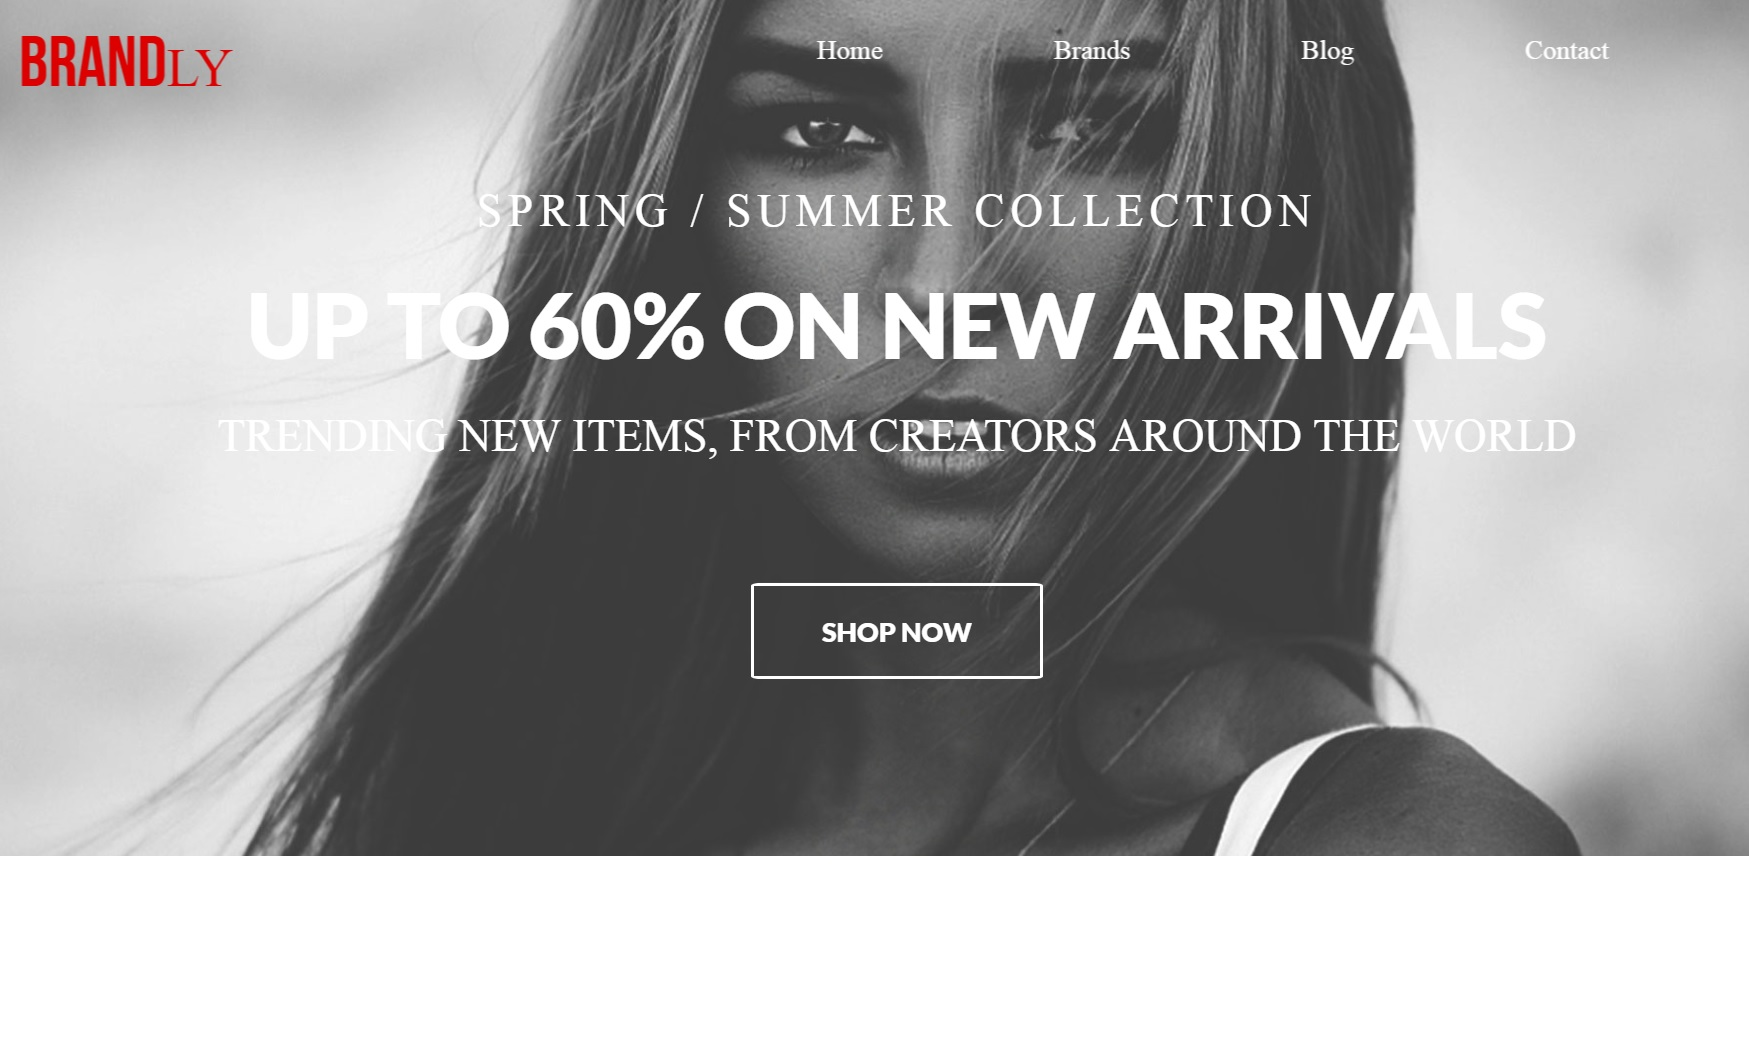
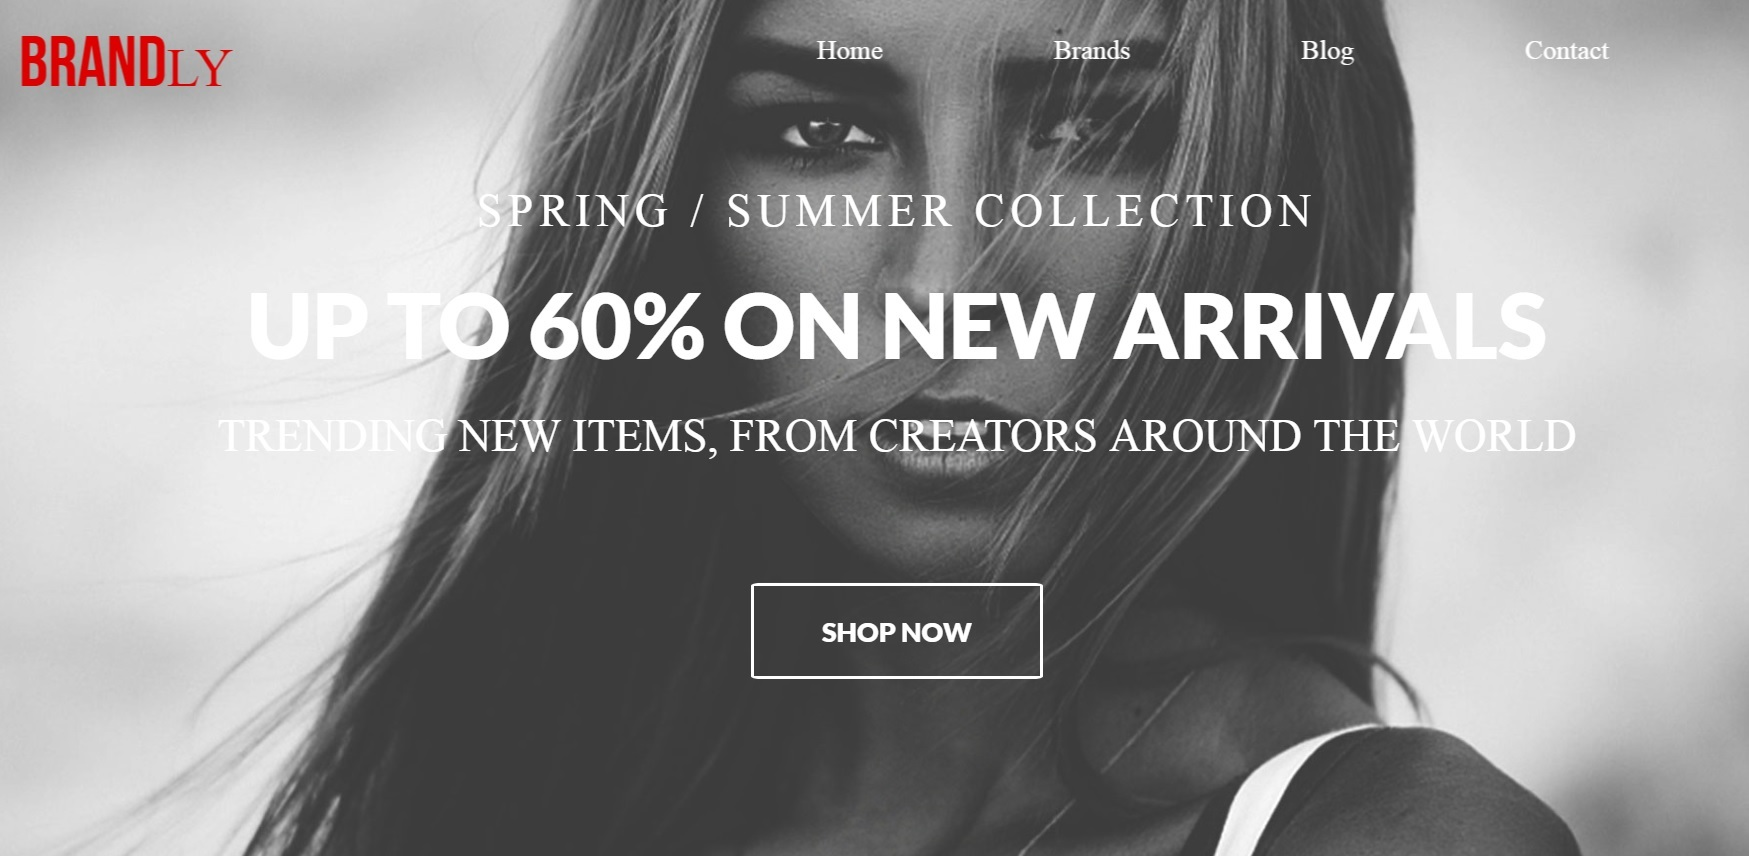
change projects images, delate animations in mobile devices, change font family

diff --git a/index.html b/index.html
@@ -6,7 +6,7 @@
     <meta name="description" content="Marysia Kołaczyńska Portfolio">
     <meta name="viewport" content="width=device-width, initial-scale=1.0, shrink-to-fit=no">
     <link rel="stylesheet" href="css/main.css">
-    <link href="https://fonts.googleapis.com/css?family=Oswald|Roboto" rel="stylesheet">
+    <link href="https://fonts.googleapis.com/css?family=Open+Sans|Oswald" rel="stylesheet">
     <link rel="stylesheet" href="https://maxcdn.bootstrapcdn.com/font-awesome/4.6.0/css/font-awesome.min.css">
 </head>
 <body>
@@ -157,12 +157,12 @@
                     <div class="form-row">
                         <label class="label" for="name">Imię</label>
                         <input class="form-input" type="text" name="name" placeholder="Imię" required="required"/>
-                        <label class="label" for="name">E-mail</label>
+                        <label class="label" for="email">E-mail</label>
                         <input class="form-input" type="email" name="_replyto" placeholder="E-mail" required="required"/>
                     </div>
-                    <label class="label" for="name">Wiadomość</label>
+                    <label class="label" for="message">Wiadomość</label>
                     <textarea class="form-input textarea" name="message" rows="9" placeholder="Wiadomość..."  required="required"></textarea>
-                    <input type="submit" value="Send" class="btn-primary btn-send"/>
+                    <input type="submit" value="Wyślij" class="btn-primary btn-send"/>
                 </form>
             </div>
             <div class="contact-info">

diff --git a/css/main.css b/css/main.css
@@ -35,7 +35,7 @@ table {
   box-sizing: border-box; }
 
 body {
-  font-family: "Roboto", sans-serif; }
+  font-family: "Open Sans", sans-serif; }
 
 .content-container {
   max-width: 1300px;
@@ -68,7 +68,6 @@ p {
 .hero {
   background: url("../images/notebook.jpg") no-repeat center center fixed;
   background-size: cover;
-  background-attachment: fixed;
   width: 100%;
   height: 100vh; }
 
@@ -386,21 +385,14 @@ p {
   background-color: #E6E6E6;
   padding-top: 20px; }
   .page-section-contact .content-wrapper {
-    display: -webkit-box;
-    display: -ms-flexbox;
-    display: flex;
-    -webkit-box-pack: center;
-        -ms-flex-pack: center;
-            justify-content: center;
-    -webkit-box-orient: vertical;
-    -webkit-box-direction: normal;
-        -ms-flex-direction: column;
-            flex-direction: column;
     padding: 50px 15px;
     max-width: 800px;
     margin: 0 auto; }
     @media screen and (min-width: 1024px) {
       .page-section-contact .content-wrapper {
+        display: -webkit-box;
+        display: -ms-flexbox;
+        display: flex;
         -webkit-box-orient: horizontal;
         -webkit-box-direction: normal;
             -ms-flex-direction: row;

diff --git a/js/main.js b/js/main.js
@@ -2,7 +2,7 @@ $( document ).ready(function() {
     
     // main navigation visibility on scroll
     $(window).scroll(function() {
-        if ($(document).scrollTop() > 300) {
+        if ($(document).scrollTop() > 100) {
             console.log("make main-nav visible here");
             $('.main-nav').addClass('main-nav--is-scrolled-down');
 

diff --git a/sass/sections/_home.scss b/sass/sections/_home.scss
@@ -14,7 +14,6 @@ p {
     -moz-background-size: cover;
     -o-background-size: cover;
     background-size: cover;
-    background-attachment: fixed;
     width: 100%;
     height: 100vh;
 }

diff --git a/sass/global/_variables.scss b/sass/global/_variables.scss
@@ -14,5 +14,5 @@ $tablet-max: 1023px;
 $desktop-min: 1024px;
 
 //fonts
-$body-font: 'Roboto', sans-serif;
+$body-font: 'Open Sans', sans-serif;
 $title-font: 'Oswald', sans-serif;
